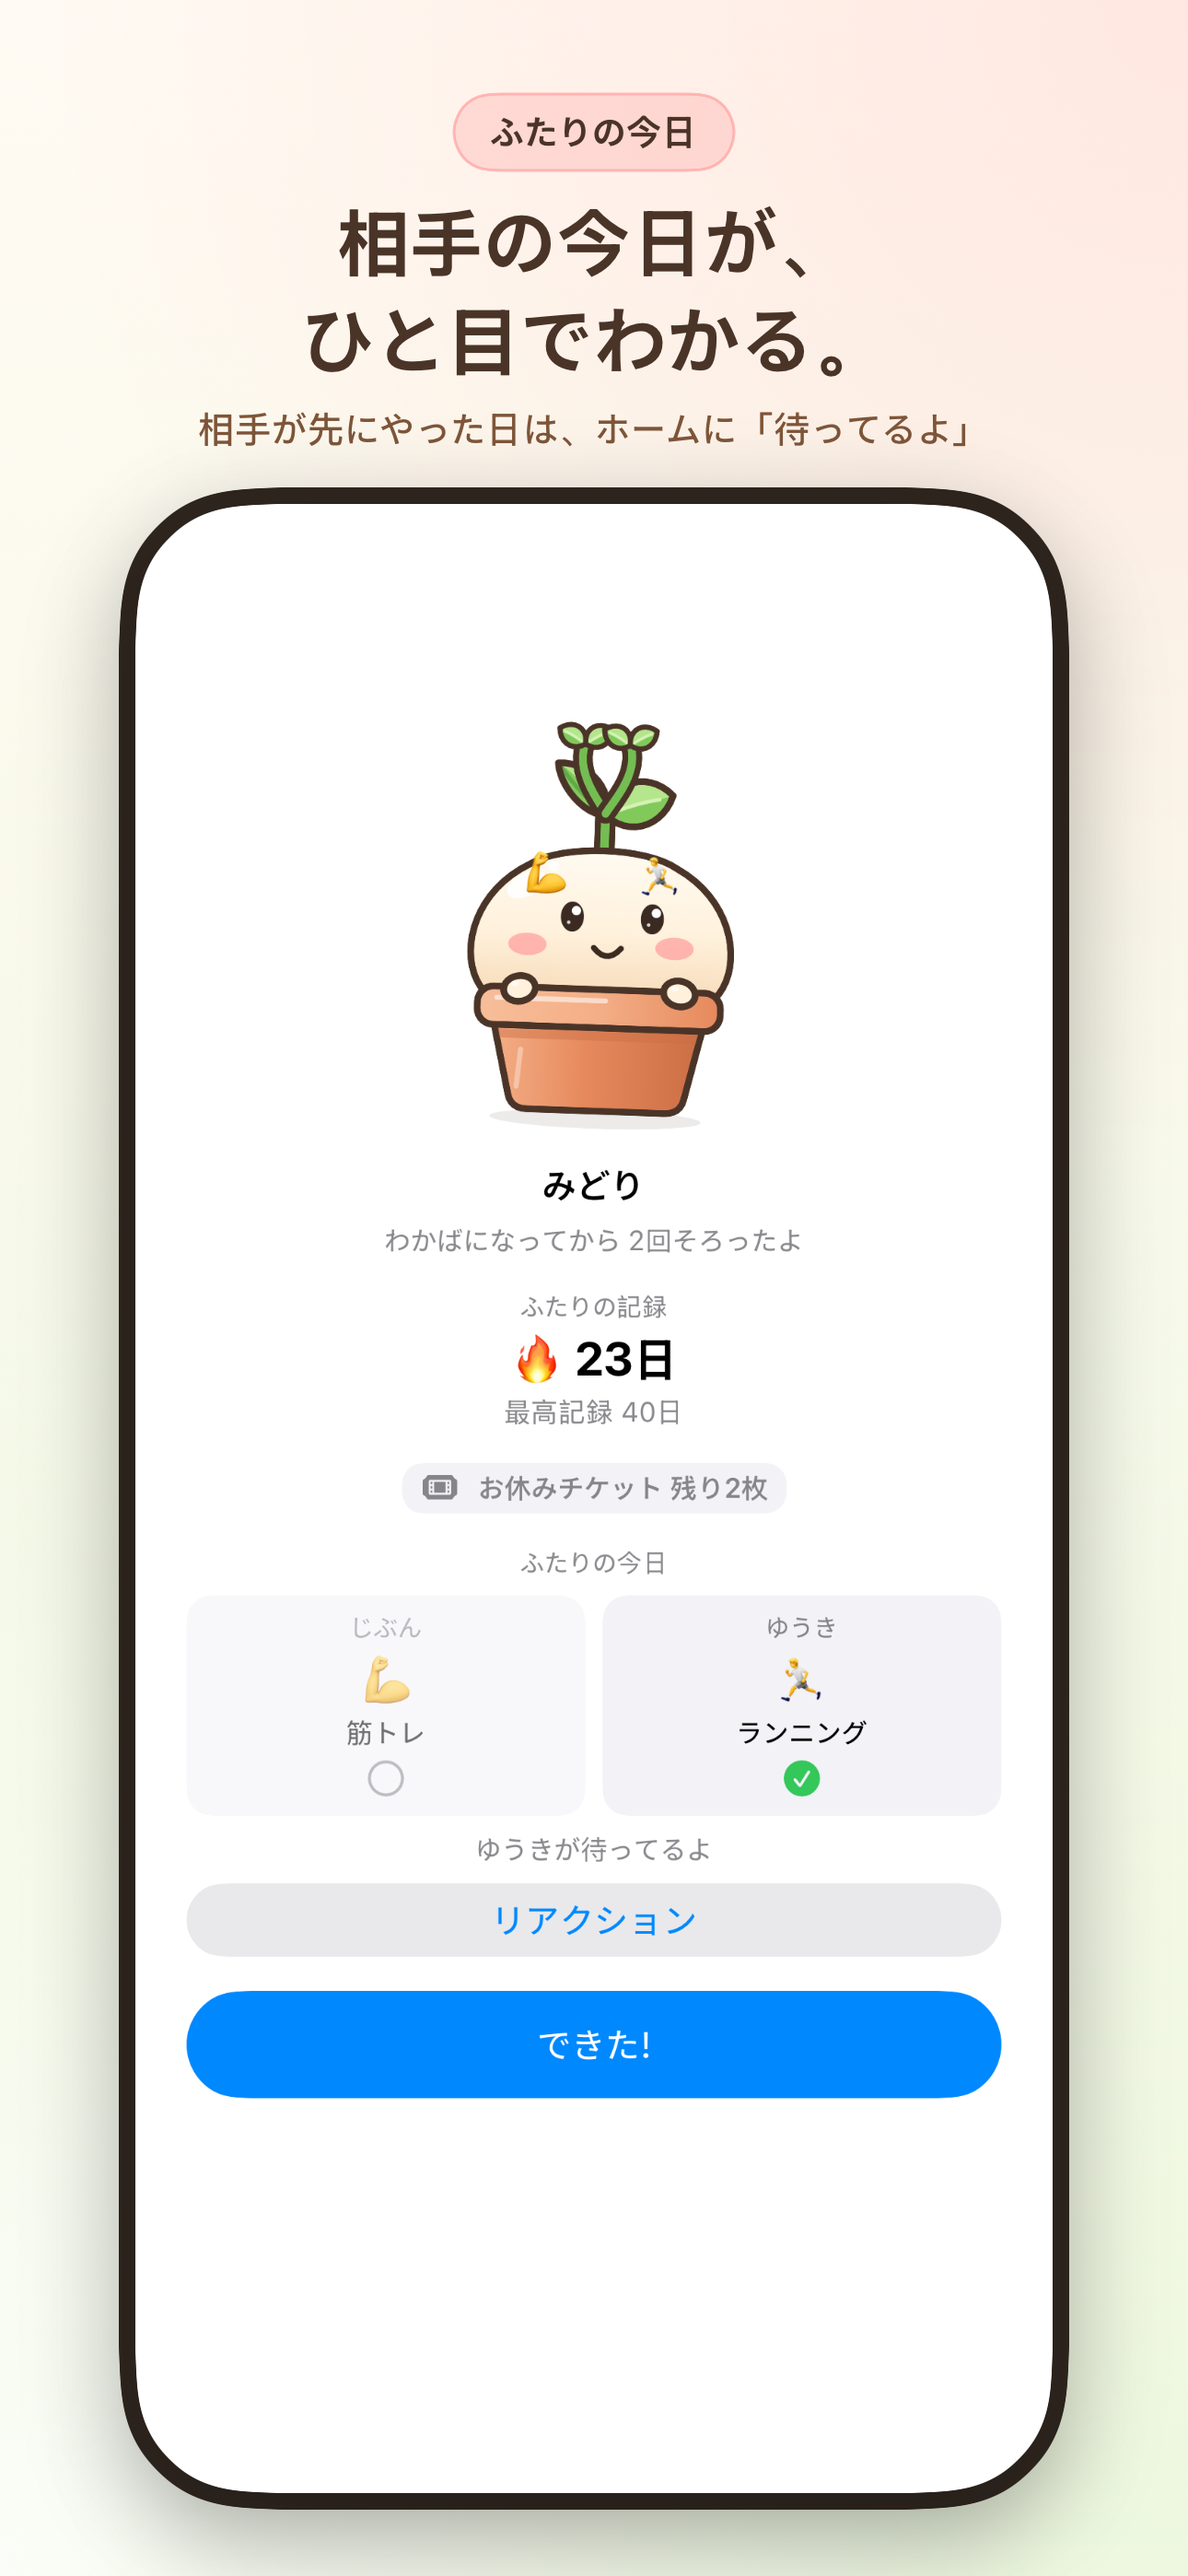
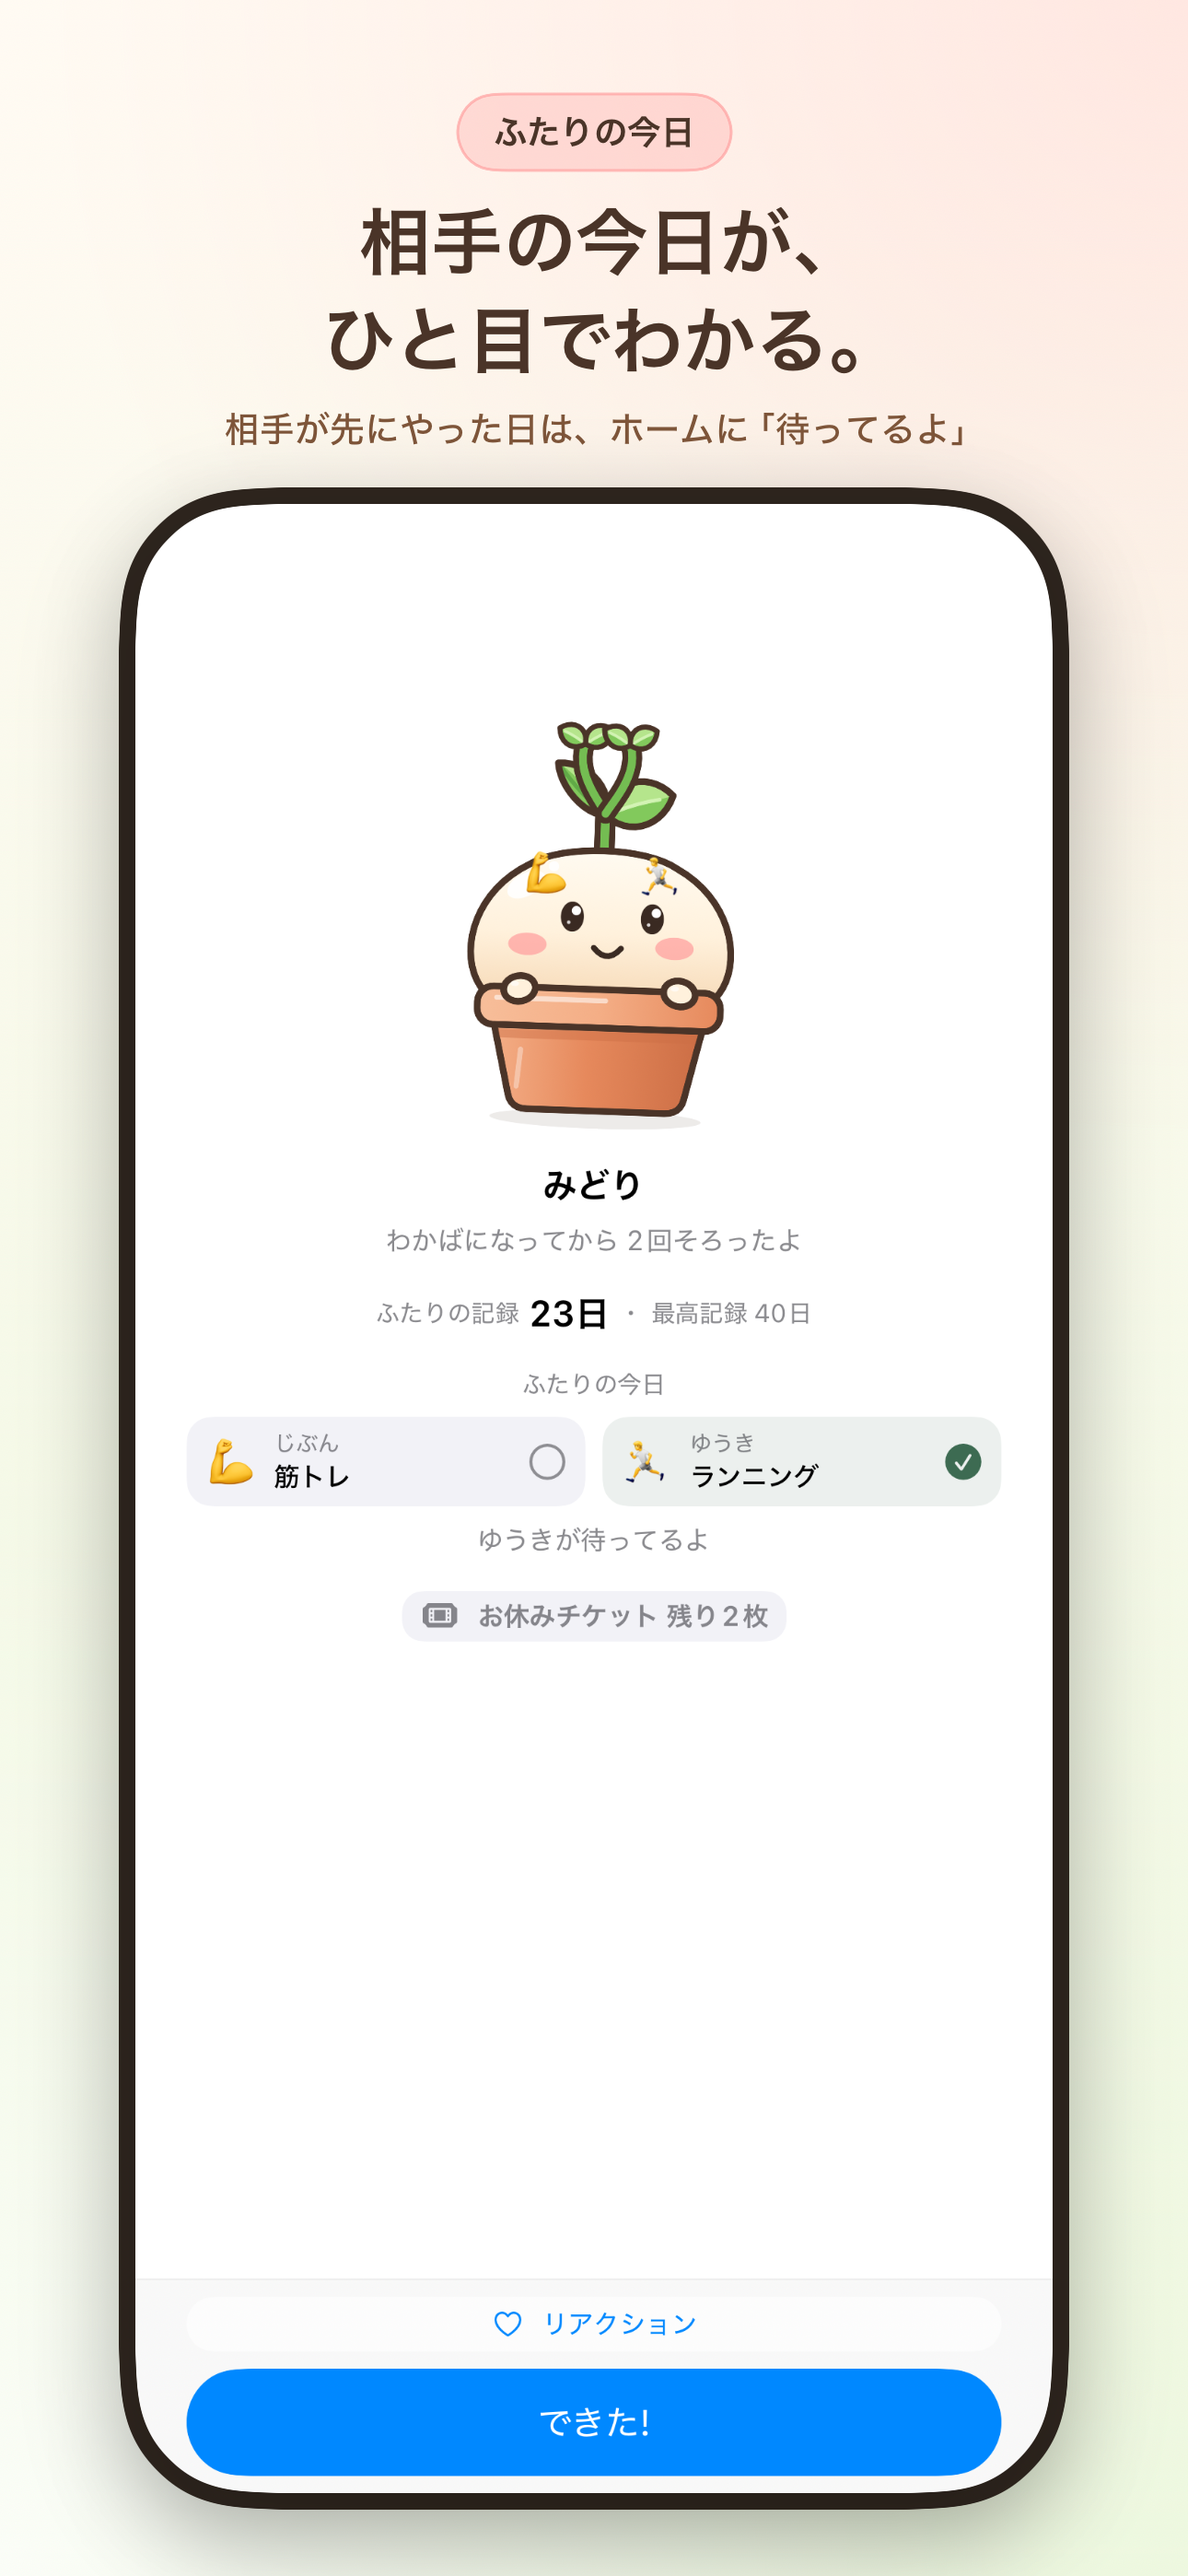
chore: プレス素材のスクショを再生成分に差し替え、法務ページの生成物を md に追随させる
- press/screenshots の3枚が元画像と SHA-256 で一致せず verify_press が NG だった
- privacy/terms の HTML が 7068a3e(運営者情報の記入)に追随しておらず pages の生成物一致が NG だった

diff --git a/products/lien/web/site/lien/legal/terms.html b/products/lien/web/site/lien/legal/terms.html
@@ -70,9 +70,9 @@
 <h1>Lien 利用規約</h1>
 <p class="meta">
 制定日: <span class="placeholder">【要記入: G4: 制定日】</span><br>
-運営者: <span class="placeholder">【要記入: G4: 事業者名(個人名または屋号)】</span>
+運営者: 小嶋諒樹
 </p>
-<p>この利用規約(以下「本規約」といいます)は、<span class="placeholder">【要記入: G4: 事業者名(個人名または屋号)】</span>(以下「運営者」といいます)が提供するiOSアプリ「Lien」(以下「本アプリ」といいます)の利用条件を定めるものです。利用者は、本アプリを利用することにより、本規約に同意したものとみなします。</p>
+<p>この利用規約(以下「本規約」といいます)は、小嶋諒樹(以下「運営者」といいます)が提供するiOSアプリ「Lien」(以下「本アプリ」といいます)の利用条件を定めるものです。利用者は、本アプリを利用することにより、本規約に同意したものとみなします。</p>
 
 <h2>第1条(適用)</h2>
 <ol>
@@ -163,14 +163,14 @@
 <h2>第12条(準拠法・裁判管轄)</h2>
 <ol>
   <li>本規約は日本法に準拠し、日本法に従って解釈されます。</li>
-  <li>本アプリに関して紛争が生じた場合、<span class="placeholder">【要記入: G4: 管轄裁判所(例: 運営者の所在地を管轄する地方裁判所)】</span>を第一審の専属的合意管轄裁判所とします。</li>
+  <li>本アプリに関して紛争が生じた場合、東京地方裁判所を第一審の専属的合意管轄裁判所とします。</li>
 </ol>
 
 <h2>第13条(お問い合わせ)</h2>
 <p>本規約に関するお問い合わせは、以下までお願いします。</p>
 <ul>
-  <li>運営者: <span class="placeholder">【要記入: G4: 事業者名(個人名または屋号)】</span></li>
-  <li>連絡先: <span class="placeholder">【要記入: G4: 連絡先メールアドレス】</span></li>
+  <li>運営者: 小嶋諒樹</li>
+  <li>連絡先: ryoki.kojima.dev@outlook.jp</li>
 </ul>
 
 <p>以上</p>

diff --git a/products/lien/web/site/lien/legal/privacy.html b/products/lien/web/site/lien/legal/privacy.html
@@ -70,9 +70,9 @@
 <h1>Lien プライバシーポリシー</h1>
 <p class="meta">
 制定日: <span class="placeholder">【要記入: G4: 制定日】</span><br>
-運営者: <span class="placeholder">【要記入: G4: 事業者名(個人名または屋号)】</span>
+運営者: 小嶋諒樹
 </p>
-<p><span class="placeholder">【要記入: G4: 事業者名(個人名または屋号)】</span>(以下「運営者」といいます)は、iOSアプリ「Lien」(以下「本アプリ」といいます)における利用者の情報の取扱いについて、個人情報の保護に関する法律(以下「個人情報保護法」といいます)その他の関係法令およびガイドラインを遵守し、以下のとおりプライバシーポリシー(以下「本ポリシー」といいます)を定めます。</p>
+<p>小嶋諒樹(以下「運営者」といいます)は、iOSアプリ「Lien」(以下「本アプリ」といいます)における利用者の情報の取扱いについて、個人情報の保護に関する法律(以下「個人情報保護法」といいます)その他の関係法令およびガイドラインを遵守し、以下のとおりプライバシーポリシー(以下「本ポリシー」といいます)を定めます。</p>
 
 <h2>1. 取得する情報</h2>
 <p>本アプリは、機能の提供に必要な最小限の情報のみを取得します。</p>
@@ -175,8 +175,8 @@
 <h2>14. お問い合わせ先</h2>
 <p>本ポリシーおよび利用者の情報の取扱いに関するお問い合わせは、以下までお願いします。</p>
 <ul>
-  <li>運営者: <span class="placeholder">【要記入: G4: 事業者名(個人名または屋号)】</span></li>
-  <li>連絡先: <span class="placeholder">【要記入: G4: 連絡先メールアドレス】</span></li>
+  <li>運営者: 小嶋諒樹</li>
+  <li>連絡先: ryoki.kojima.dev@outlook.jp</li>
 </ul>
 
 <p>以上</p>
